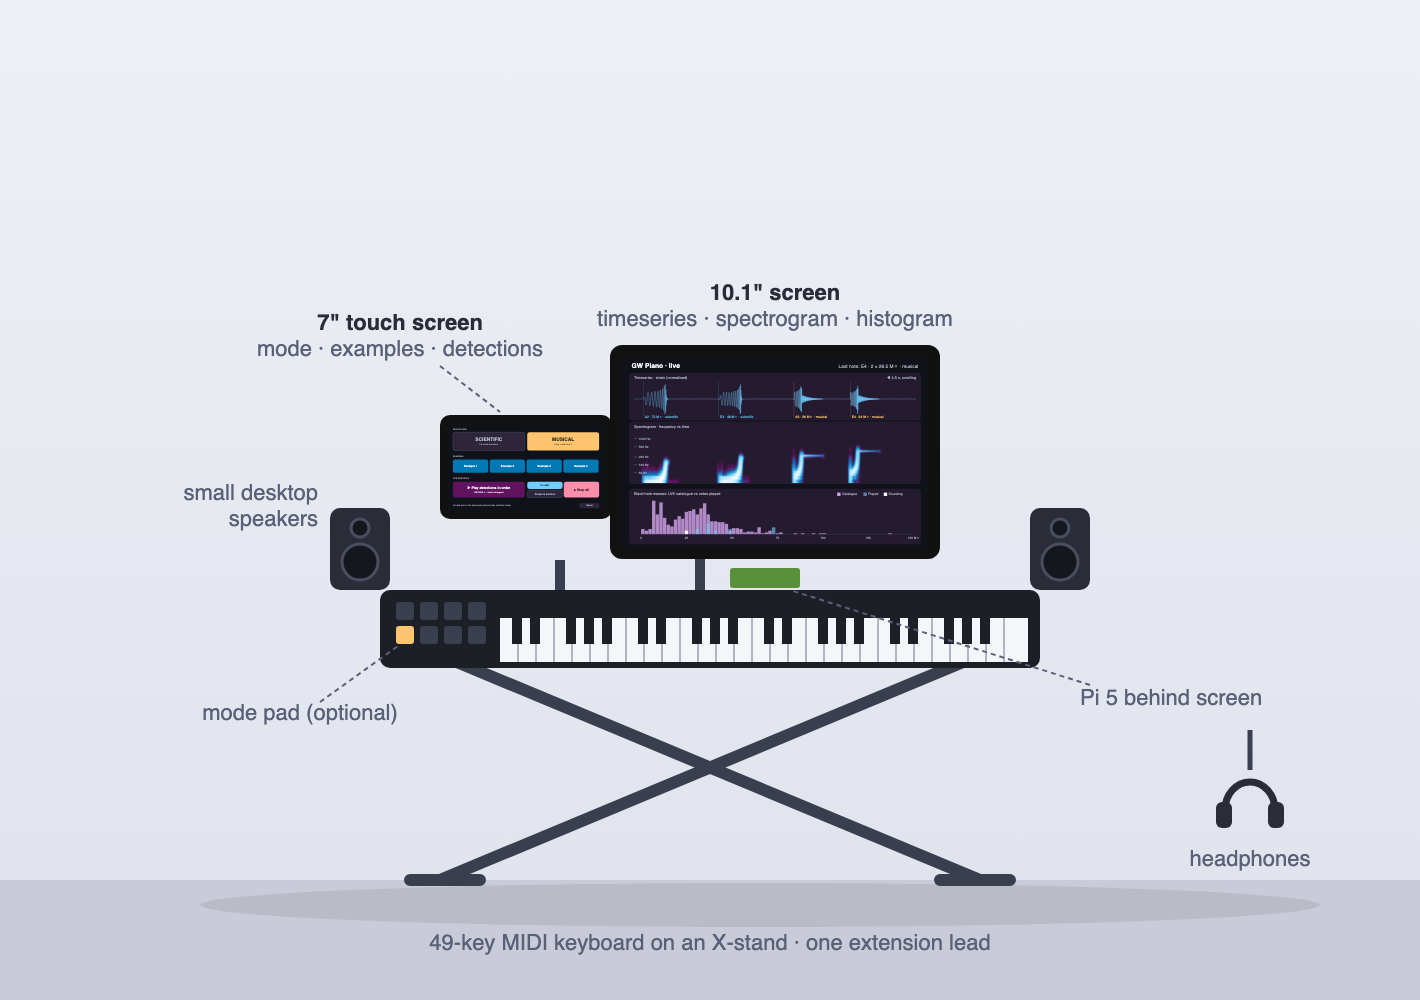
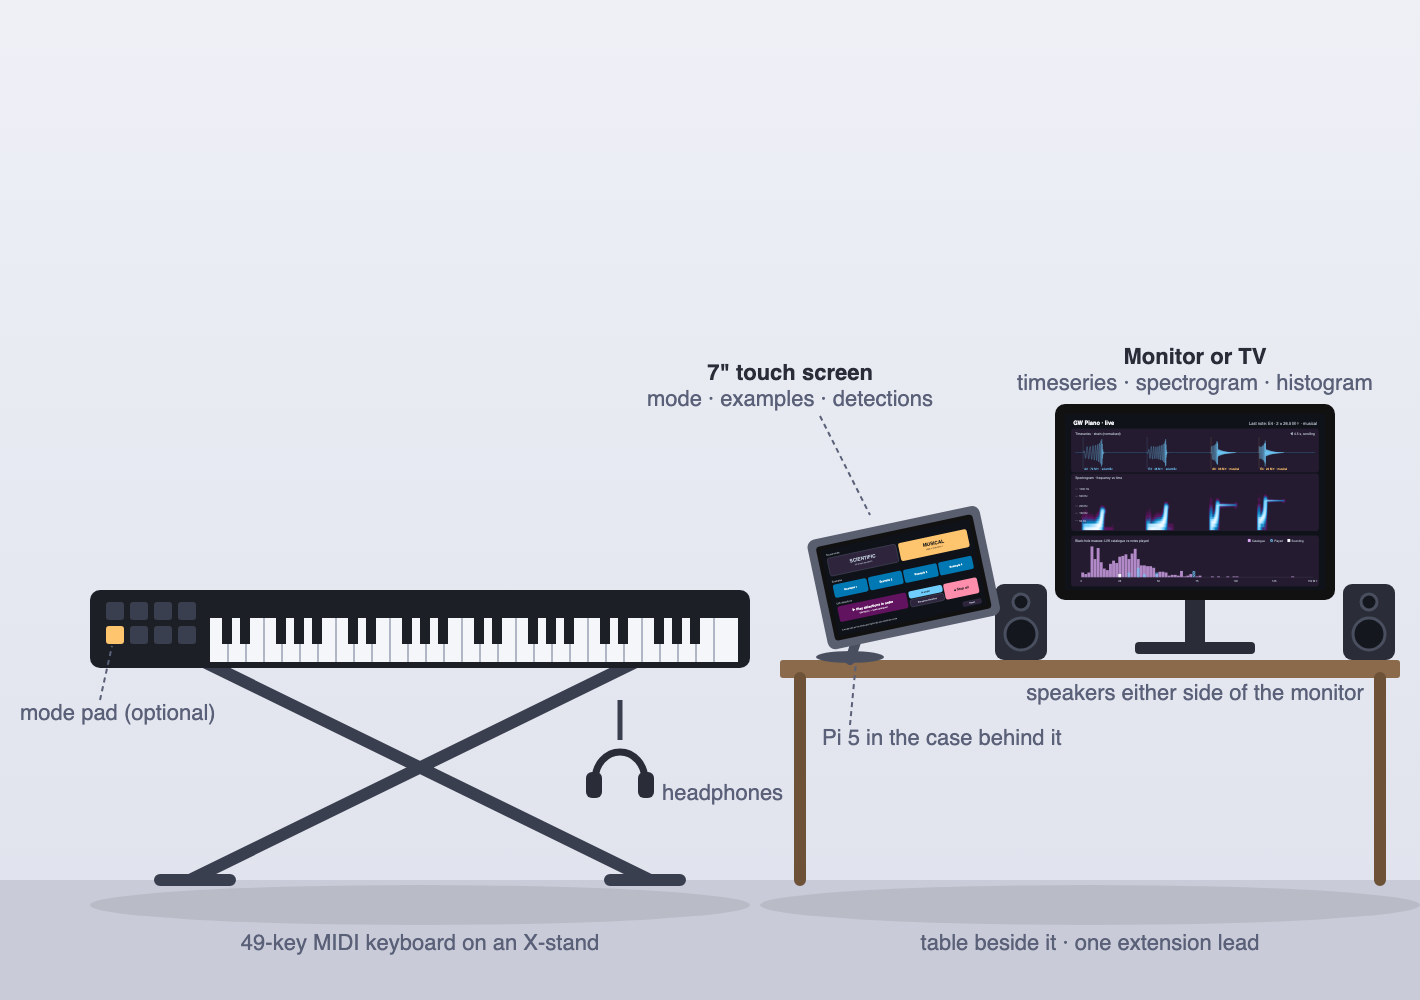
Show the side-table layout and add a volunteer briefing
The stand image puts the touch screen, Pi and monitor on a table beside the
keyboard, with a speaker either side of the monitor. The guide describes the
same layout and adds a volunteer briefing to On the day. The live page shows
the GW Piano logo in its header.

diff --git a/docs/stand-setup.html b/docs/stand-setup.html
@@ -58,8 +58,8 @@ a{color:var(--accent)}
 
 <section>
   <h2>The stand</h2>
-  <img src="images/stand.png" alt="Outreach stand: keyboard on an X-stand with a 7-inch touch screen and 10.1-inch screen above the keys and small desktop speakers on the keyboard ends" style="width:100%;border-radius:10px;border:1px solid var(--line)">
-  <p>The keyboard sits at standing height on an X-stand. The picture shows the screens just behind the controls; the simplest build instead stands the touch screen, with the Pi on its back, and a monitor on a table beside the keyboard (see <a href="#parts">Placing the screens</a>). Two small speakers sit on the keyboard ends or the table, angled up at the player, and headphones hang from the stand. A table in front can hold printed mass cards, so visitors can find "their" black hole on the histogram.</p>
+  <img src="images/stand.png" alt="Outreach stand: keyboard on an X-stand and a table beside it holding the 7-inch touch screen in its case and a monitor with a speaker either side" style="width:100%;border-radius:10px;border:1px solid var(--line)">
+  <p>The keyboard sits at standing height on an X-stand. The touch screen, with the Pi on its back, and a monitor stand on a table beside it (see <a href="#parts">Placing the screens</a>). Two small speakers sit on the table either side of the monitor, angled at the player, and headphones hang from the stand. A table in front can hold printed mass cards, so visitors can find "their" black hole on the histogram.</p>
   <h3>10.1" screen: timeseries, spectrogram and histogram</h3>
   <img src="images/screen-waveform.png" alt="Live screen mock-up: scrolling strain timeseries, spectrogram showing each chirp sweeping up in frequency, and the LVK mass histogram" style="width:100%;border-radius:10px">
   <p>The top strip is a live timeseries of the sound being played, scrolling from right to left over the last 4.5 seconds, with each note labelled by its mass and mode. Underneath, a spectrogram on the same time axis shows each chirp sweeping up in frequency. Musical-mode notes then hold a flat line at the note's pitch. The bottom panel is the catalogue histogram from the website. Played notes stack up as striped bars, and the note currently sounding shows in white.</p>
@@ -114,7 +114,7 @@ a{color:var(--accent)}
       <tr><td>microSD card, 16–64&nbsp;GB</td><td>From a known brand and rated A1 or A2, for reliable operating-system use. Raspberry Pi OS with desktop takes about 6&nbsp;GB and the GW Piano site under 100&nbsp;MB, so 16&nbsp;GB leaves room for updates. Pi OS is installed on it for free with Raspberry Pi Imager, so a card with Pi OS pre-installed is not needed.</td></tr>
       <tr><td>Raspberry Pi Touch Display 2 (7")</td><td>Mode screen; you can tap it to switch modes</td></tr>
       <tr><td>Desktop case and stand for Pi 5 + Touch Display 2</td><td>Metal case that holds the Pi on the back of the touch screen and stands on the table with an adjustable tilt; deep enough (HAT-height) to fit the active cooler, with ventilation slots</td></tr>
-      <tr><td>HDMI monitor or TV (borrowed), or a 10.1" 1280×800 HDMI display</td><td>Live timeseries, spectrogram and histogram screen</td></tr>
+      <tr><td>HDMI monitor or TV</td><td>Live timeseries, spectrogram and histogram screen</td></tr>
       <tr><td>Raspberry Pi micro-HDMI to HDMI cable, 2&nbsp;m</td><td>Pi to monitor, with reach to a screen beside the keyboard</td></tr>
       <tr><td>Keyboard X-stand</td><td>Holds the keyboard at standing height</td></tr>
       <tr><td>Table</td><td>Holds the touch screen, Pi, monitor and speakers, beside the keyboard</td></tr>
@@ -125,7 +125,7 @@ a{color:var(--accent)}
   </table>
   </div>
   <h3>Placing the screens</h3>
-  <p>The keyboard stands on its X-stand with a table beside it. The touch screen sits on the table in its case and stand, with the Pi mounted on its back, within easy reach of the player. The main display, a borrowed monitor or TV or a 10.1" HDMI display, stands on the same table where the player and onlookers can see it, connected by the 2&nbsp;m micro-HDMI cable. Only the Pi power lead, the monitor and the speakers need sockets.</p>
+  <p>The keyboard stands on its X-stand with a table beside it. The touch screen sits on the table in its case and stand, with the Pi mounted on its back, within easy reach of the player. The monitor or TV stands on the same table where the player and onlookers can see it, connected by the 2&nbsp;m micro-HDMI cable. Only the Pi power lead, the monitor and the speakers need sockets.</p>
 </section>
 
 <section>
@@ -154,7 +154,7 @@ a{color:var(--accent)}
   <h3>Audible, but not overpowering</h3>
   <p>The goal is for the stand to be heard clearly by the people at it in a busy room, without drowning out neighbouring stands.</p>
   <ul>
-    <li><b>Point the sound at the audience.</b> Two compact speakers on the keyboard ends, angled up towards the player and the people gathered in front, reach the group directly. Speakers aimed outwards, or raised on poles, spread the sound across the room instead. Speakers with some headroom (10–20 W per side) stay clear at this level instead of distorting.</li>
+    <li><b>Point the sound at the audience.</b> Two compact speakers on the table either side of the monitor, angled towards the player and the people gathered in front, reach the group directly. Speakers aimed outwards, or raised on poles, spread the sound across the room instead. Speakers with some headroom (10–20 W per side) stay clear at this level instead of distorting.</li>
     <li><b>Hard volume cap.</b> Set the maximum level once in software (the ALSA mixer level; the kiosk page also caps its own output level), so turning the speaker knob cannot push it past that level. Busy halls run at about 65–75 dB(A), so aim for about 75–80 dB(A) at the player's position. Set it with a phone sound-meter app at the event, then check the level at the next stand along: there it should sit below the room's own background noise.</li>
     <li><b>Headphones for busy or quiet rooms.</b> A small headphone amp drives two pairs of closed-back headphones, so the stand can go completely silent. Wipe the headphones between visitors.</li>
     <li><b>Mind the low notes.</b> Bass carries furthest. The sound is already one-shot and short, but if neighbours complain, use the low-cut on the speakers or keep visitors to the middle octaves.</li>
@@ -231,6 +231,36 @@ vcgencmd get_throttled    # should report throttled=0x0</code></pre>
     <li>Before the doors open, check the volume from the neighbouring stands, and ask them to tell you if it bothers them.</li>
     <li>Start with musical mode for melodies. Switch to scientific mode to show that heavier binaries chirp lower and for longer.</li>
     <li>A single key in scientific mode is the "what LIGO hears" moment. The waveform screen shows the matching strain.</li>
+  </ul>
+
+  <h3>Volunteer briefing</h3>
+  <p>Volunteers do not need to play the piano. Single key presses are the science, and the touch screen plays the musical parts.</p>
+  <p><b>The idea in one line:</b> each key is the sound of two black holes merging. Low notes are heavy black holes; high notes are light ones.</p>
+  <p><b>Getting a visitor started</b></p>
+  <ol>
+    <li>"Press any key." Start in scientific mode: one key gives the chirp that LIGO hears.</li>
+    <li>"Now try one at the far left, then one at the far right." Heavy black holes chirp lower and for longer; light ones chirp short and high.</li>
+    <li>Point at the monitor. The <b>timeseries</b> is the wave they just made. The <b>spectrogram</b> shows the frequency sweeping up as the black holes spiral together. On the <b>histogram</b>, the coloured line marks their key's mass, and the purple bars are the real black holes found by LIGO, Virgo and KAGRA.</li>
+    <li>"Which key matches the most common real black holes?" Visitors hunt along the keyboard for the tallest purple bars.</li>
+  </ol>
+  <p><b>For visitors who want music:</b> tap <b>MUSICAL</b> on the touch screen, then <b>Example 1–4</b>. The tune plays by itself, and visitors can join in on the keys.</p>
+  <p><b>The showpiece</b></p>
+  <ul>
+    <li><b>▶ Play detections in order</b> plays every real detection, oldest first: "That's every black-hole merger we've heard."</li>
+    <li><b>Detection timeline</b> plays them with their real spacing, squeezed into 30 seconds.</li>
+    <li><b>■ Stop all</b> stops everything.</li>
+  </ul>
+  <p><b>Housekeeping</b></p>
+  <ul>
+    <li><b>Reset played notes</b> clears the histogram between groups.</li>
+    <li>If it is too loud or the room goes quiet, switch to headphones rather than turning the speakers up.</li>
+    <li>If something freezes, unplug the Pi's power and plug it back in. The stand restarts by itself in about 30 seconds.</li>
+  </ul>
+  <p><b>Useful lines</b></p>
+  <ul>
+    <li>"You don't need to play piano. Every key is an experiment."</li>
+    <li>"Real gravitational waves from these black holes are in the audio band, so we can turn them straight into sound."</li>
+    <li>"To play what the LISA space mission will hear, you'd need a piano about 2 metres longer, and you'd wait several minutes for each wave to go by." Each key's pitch is the merger frequency of two equal-mass black holes, so each octave down doubles the mass; LISA's most sensitive band, around 3&nbsp;mHz, is about 13 octaves below the lowest A, or black holes of a few million solar masses each.</li>
   </ul>
 </section>
 </main>

diff --git a/src/gw_piano/web/stand.html b/src/gw_piano/web/stand.html
@@ -61,8 +61,8 @@ a{color:var(--accent)}
 
 <section>
   <h2>The stand</h2>
-  <img src="stand-stand.png" alt="Outreach stand: keyboard on an X-stand with a 7-inch touch screen and 10.1-inch screen above the keys and small desktop speakers on the keyboard ends" style="width:100%;border-radius:10px;border:1px solid var(--line)">
-  <p>The keyboard sits at standing height on an X-stand. The picture shows the screens just behind the controls; the simplest build instead stands the touch screen, with the Pi on its back, and a monitor on a table beside the keyboard (see <a href="#parts">Placing the screens</a>). Two small speakers sit on the keyboard ends or the table, angled up at the player, and headphones hang from the stand. A table in front can hold printed mass cards, so visitors can find "their" black hole on the histogram.</p>
+  <img src="stand-stand.png" alt="Outreach stand: keyboard on an X-stand and a table beside it holding the 7-inch touch screen in its case and a monitor with a speaker either side" style="width:100%;border-radius:10px;border:1px solid var(--line)">
+  <p>The keyboard sits at standing height on an X-stand. The touch screen, with the Pi on its back, and a monitor stand on a table beside it (see <a href="#parts">Placing the screens</a>). Two small speakers sit on the table either side of the monitor, angled at the player, and headphones hang from the stand. A table in front can hold printed mass cards, so visitors can find "their" black hole on the histogram.</p>
   <h3>10.1" screen: timeseries, spectrogram and histogram</h3>
   <img src="stand-screen-waveform.png" alt="Live screen mock-up: scrolling strain timeseries, spectrogram showing each chirp sweeping up in frequency, and the LVK mass histogram" style="width:100%;border-radius:10px">
   <p>The top strip is a live timeseries of the sound being played, scrolling from right to left over the last 4.5 seconds, with each note labelled by its mass and mode. Underneath, a spectrogram on the same time axis shows each chirp sweeping up in frequency. Musical-mode notes then hold a flat line at the note's pitch. The bottom panel is the catalogue histogram from the website. Played notes stack up as striped bars, and the note currently sounding shows in white.</p>
@@ -117,7 +117,7 @@ a{color:var(--accent)}
       <tr><td>microSD card, 16–64&nbsp;GB</td><td>From a known brand and rated A1 or A2, for reliable operating-system use. Raspberry Pi OS with desktop takes about 6&nbsp;GB and the GW Piano site under 100&nbsp;MB, so 16&nbsp;GB leaves room for updates. Pi OS is installed on it for free with Raspberry Pi Imager, so a card with Pi OS pre-installed is not needed.</td></tr>
       <tr><td>Raspberry Pi Touch Display 2 (7")</td><td>Mode screen; you can tap it to switch modes</td></tr>
       <tr><td>Desktop case and stand for Pi 5 + Touch Display 2</td><td>Metal case that holds the Pi on the back of the touch screen and stands on the table with an adjustable tilt; deep enough (HAT-height) to fit the active cooler, with ventilation slots</td></tr>
-      <tr><td>HDMI monitor or TV (borrowed), or a 10.1" 1280×800 HDMI display</td><td>Live timeseries, spectrogram and histogram screen</td></tr>
+      <tr><td>HDMI monitor or TV</td><td>Live timeseries, spectrogram and histogram screen</td></tr>
       <tr><td>Raspberry Pi micro-HDMI to HDMI cable, 2&nbsp;m</td><td>Pi to monitor, with reach to a screen beside the keyboard</td></tr>
       <tr><td>Keyboard X-stand</td><td>Holds the keyboard at standing height</td></tr>
       <tr><td>Table</td><td>Holds the touch screen, Pi, monitor and speakers, beside the keyboard</td></tr>
@@ -128,7 +128,7 @@ a{color:var(--accent)}
   </table>
   </div>
   <h3>Placing the screens</h3>
-  <p>The keyboard stands on its X-stand with a table beside it. The touch screen sits on the table in its case and stand, with the Pi mounted on its back, within easy reach of the player. The main display, a borrowed monitor or TV or a 10.1" HDMI display, stands on the same table where the player and onlookers can see it, connected by the 2&nbsp;m micro-HDMI cable. Only the Pi power lead, the monitor and the speakers need sockets.</p>
+  <p>The keyboard stands on its X-stand with a table beside it. The touch screen sits on the table in its case and stand, with the Pi mounted on its back, within easy reach of the player. The monitor or TV stands on the same table where the player and onlookers can see it, connected by the 2&nbsp;m micro-HDMI cable. Only the Pi power lead, the monitor and the speakers need sockets.</p>
 </section>
 
 <section>
@@ -157,7 +157,7 @@ a{color:var(--accent)}
   <h3>Audible, but not overpowering</h3>
   <p>The goal is for the stand to be heard clearly by the people at it in a busy room, without drowning out neighbouring stands.</p>
   <ul>
-    <li><b>Point the sound at the audience.</b> Two compact speakers on the keyboard ends, angled up towards the player and the people gathered in front, reach the group directly. Speakers aimed outwards, or raised on poles, spread the sound across the room instead. Speakers with some headroom (10–20 W per side) stay clear at this level instead of distorting.</li>
+    <li><b>Point the sound at the audience.</b> Two compact speakers on the table either side of the monitor, angled towards the player and the people gathered in front, reach the group directly. Speakers aimed outwards, or raised on poles, spread the sound across the room instead. Speakers with some headroom (10–20 W per side) stay clear at this level instead of distorting.</li>
     <li><b>Hard volume cap.</b> Set the maximum level once in software (the ALSA mixer level; the kiosk page also caps its own output level), so turning the speaker knob cannot push it past that level. Busy halls run at about 65–75 dB(A), so aim for about 75–80 dB(A) at the player's position. Set it with a phone sound-meter app at the event, then check the level at the next stand along: there it should sit below the room's own background noise.</li>
     <li><b>Headphones for busy or quiet rooms.</b> A small headphone amp drives two pairs of closed-back headphones, so the stand can go completely silent. Wipe the headphones between visitors.</li>
     <li><b>Mind the low notes.</b> Bass carries furthest. The sound is already one-shot and short, but if neighbours complain, use the low-cut on the speakers or keep visitors to the middle octaves.</li>
@@ -234,6 +234,36 @@ vcgencmd get_throttled    # should report throttled=0x0</code></pre>
     <li>Before the doors open, check the volume from the neighbouring stands, and ask them to tell you if it bothers them.</li>
     <li>Start with musical mode for melodies. Switch to scientific mode to show that heavier binaries chirp lower and for longer.</li>
     <li>A single key in scientific mode is the "what LIGO hears" moment. The waveform screen shows the matching strain.</li>
+  </ul>
+
+  <h3>Volunteer briefing</h3>
+  <p>Volunteers do not need to play the piano. Single key presses are the science, and the touch screen plays the musical parts.</p>
+  <p><b>The idea in one line:</b> each key is the sound of two black holes merging. Low notes are heavy black holes; high notes are light ones.</p>
+  <p><b>Getting a visitor started</b></p>
+  <ol>
+    <li>"Press any key." Start in scientific mode: one key gives the chirp that LIGO hears.</li>
+    <li>"Now try one at the far left, then one at the far right." Heavy black holes chirp lower and for longer; light ones chirp short and high.</li>
+    <li>Point at the monitor. The <b>timeseries</b> is the wave they just made. The <b>spectrogram</b> shows the frequency sweeping up as the black holes spiral together. On the <b>histogram</b>, the coloured line marks their key's mass, and the purple bars are the real black holes found by LIGO, Virgo and KAGRA.</li>
+    <li>"Which key matches the most common real black holes?" Visitors hunt along the keyboard for the tallest purple bars.</li>
+  </ol>
+  <p><b>For visitors who want music:</b> tap <b>MUSICAL</b> on the touch screen, then <b>Example 1–4</b>. The tune plays by itself, and visitors can join in on the keys.</p>
+  <p><b>The showpiece</b></p>
+  <ul>
+    <li><b>▶ Play detections in order</b> plays every real detection, oldest first: "That's every black-hole merger we've heard."</li>
+    <li><b>Detection timeline</b> plays them with their real spacing, squeezed into 30 seconds.</li>
+    <li><b>■ Stop all</b> stops everything.</li>
+  </ul>
+  <p><b>Housekeeping</b></p>
+  <ul>
+    <li><b>Reset played notes</b> clears the histogram between groups.</li>
+    <li>If it is too loud or the room goes quiet, switch to headphones rather than turning the speakers up.</li>
+    <li>If something freezes, unplug the Pi's power and plug it back in. The stand restarts by itself in about 30 seconds.</li>
+  </ul>
+  <p><b>Useful lines</b></p>
+  <ul>
+    <li>"You don't need to play piano. Every key is an experiment."</li>
+    <li>"Real gravitational waves from these black holes are in the audio band, so we can turn them straight into sound."</li>
+    <li>"To play what the LISA space mission will hear, you'd need a piano about 2 metres longer, and you'd wait several minutes for each wave to go by." Each key's pitch is the merger frequency of two equal-mass black holes, so each octave down doubles the mass; LISA's most sensitive band, around 3&nbsp;mHz, is about 13 octaves below the lowest A, or black holes of a few million solar masses each.</li>
   </ul>
 </section>
 </main>

diff --git a/src/gw_piano/web/kiosk-live.html b/src/gw_piano/web/kiosk-live.html
@@ -11,7 +11,7 @@
   body { background: var(--bg); color: var(--text); font: 16px/1.4 Inter, system-ui, sans-serif; cursor: none;
          display: grid; grid-template-rows: auto 1fr 1.3fr 1.2fr; gap: 12px; padding: 14px 24px; box-sizing: border-box; }
   header { display: flex; justify-content: space-between; align-items: baseline; gap: 16px; }
-  h1 { font-size: 26px; margin: 0; }
+  h1 { margin: 0; line-height: 0; } h1 img { height: 64px; width: auto; }
   #last-note { color: var(--muted); }
   #mode-chip { text-transform: uppercase; font-weight: 700; letter-spacing: .06em; padding: 2px 12px; border-radius: 99px;
                background: var(--signal); color: var(--on-signal); }
@@ -30,7 +30,7 @@
 </style>
 </head>
 <body>
-  <header><h1>GW Piano · live</h1><span id="last-note">Play a key</span><span id="mode-chip" data-mode="scientific">scientific</span></header>
+  <header><h1><img src="gw-piano-dark.svg" alt="GW Piano" height="64"></h1><span id="last-note">Play a key</span><span id="mode-chip" data-mode="scientific">scientific</span></header>
   <section class="panel"><h2><span>Timeseries · strain (auto-scaled)</span><span>◀ last 4.5 s</span></h2>
     <canvas id="timeseries"></canvas><div id="markers"></div></section>
   <section class="panel"><h2><span>Spectrogram · frequency vs time</span><span>20 Hz – 2 kHz, log scale</span></h2>
